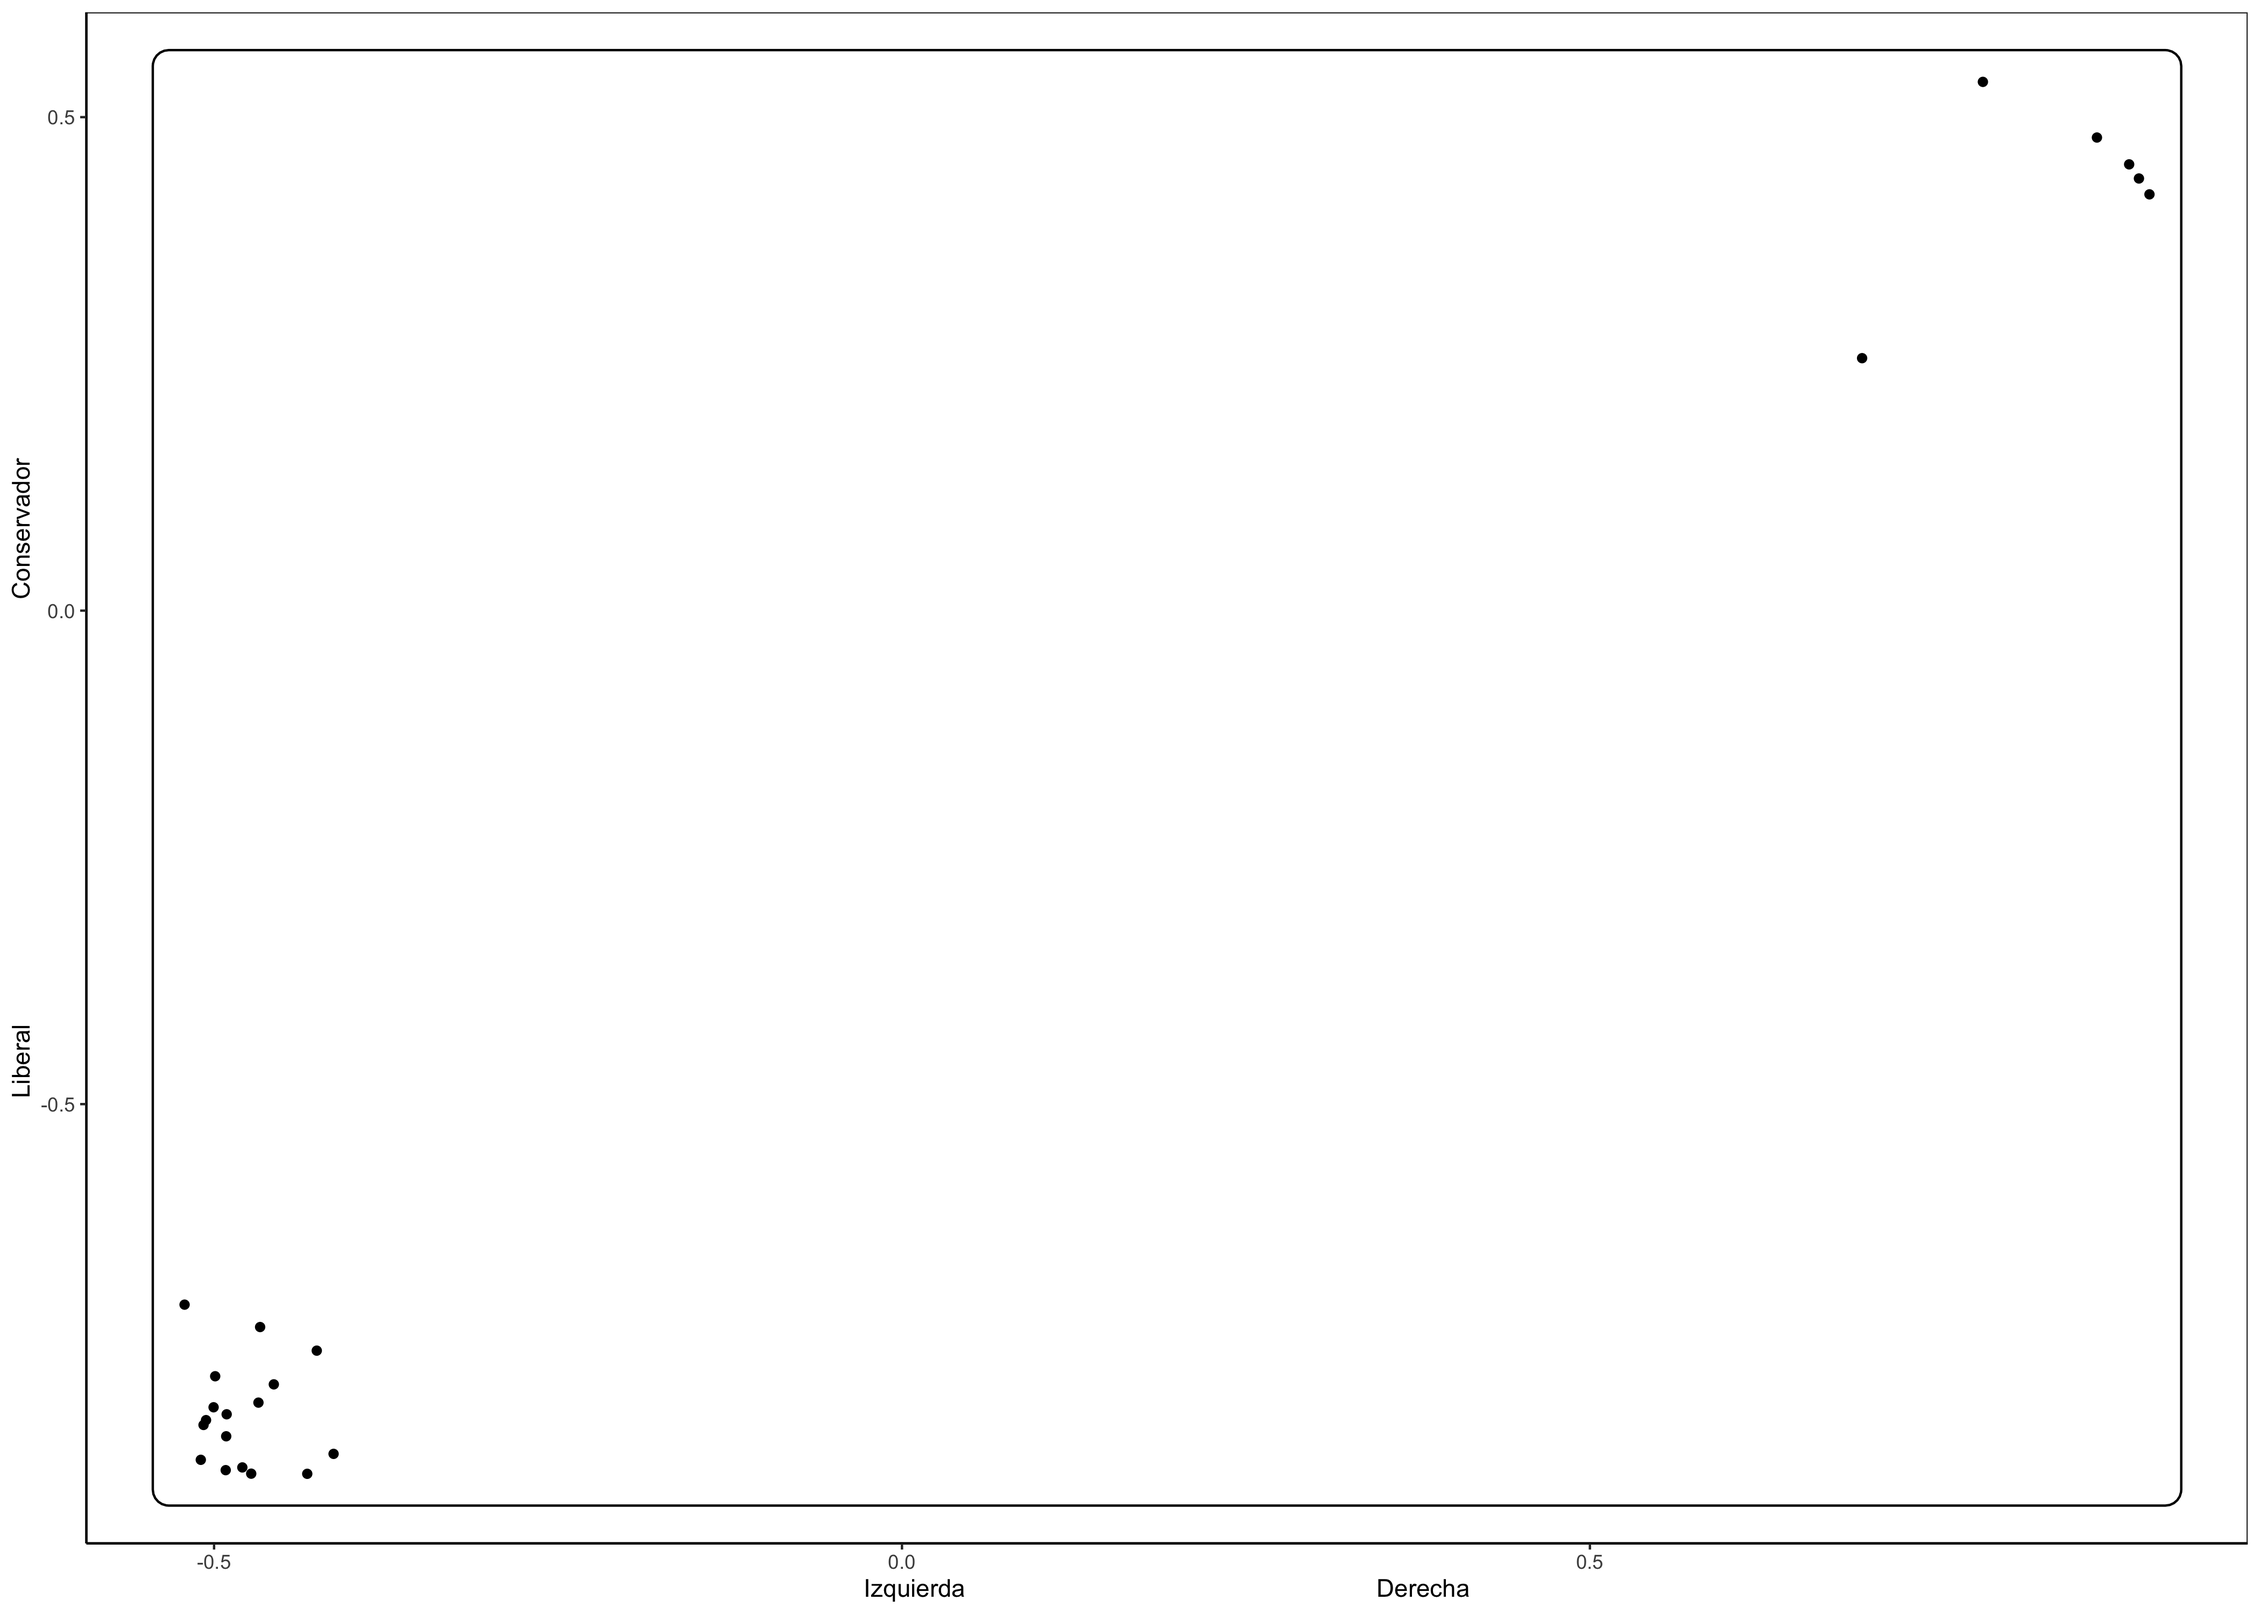
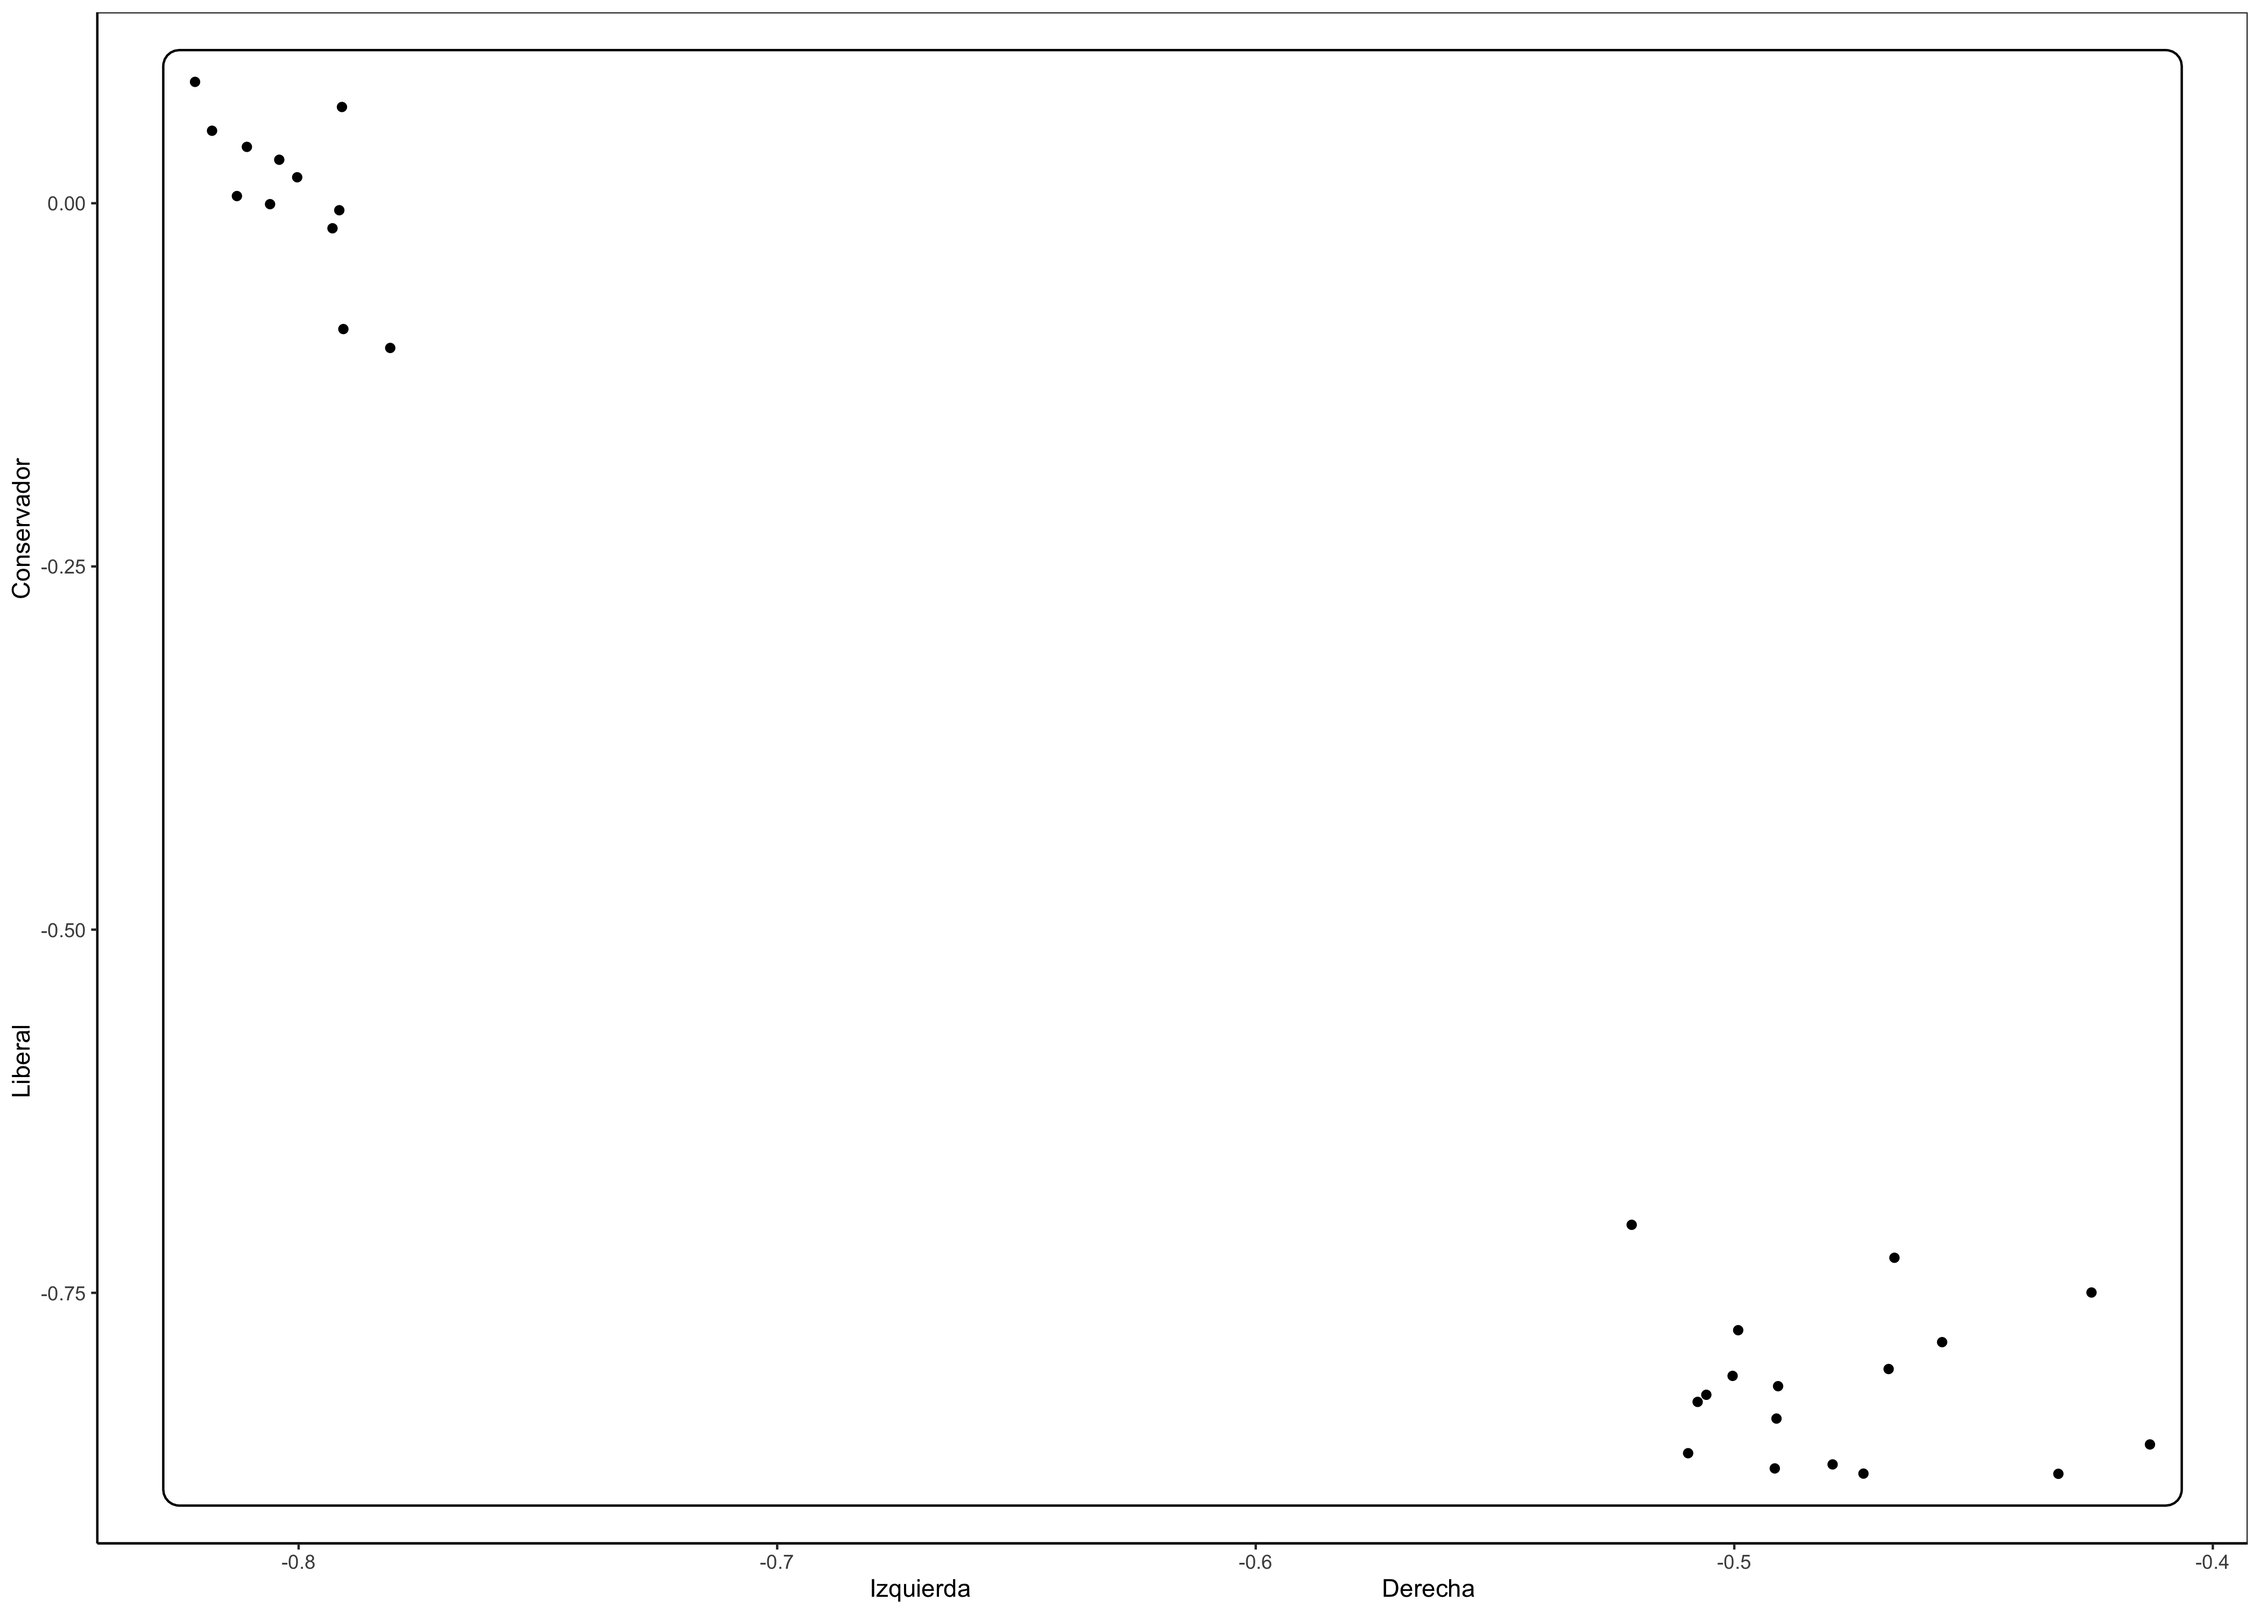
dd

diff --git a/_pages/constituyentes.md b/_pages/constituyentes.md
@@ -28,8 +28,16 @@ En esta página puedes detalles de los constituyentes. La primera sección usa e
 
 
 ### Posicionamiento ideológico de comisiones
-![cc](/images/posicionamiento/puntos_ideales_justicia.png){:height="49%" width="49%"}
+
+/Users/kennethbunker/Dropbox/GitHub/tresquintos.github.io/images/posicionamiento/puntos_ideales_sistema_politico.png
+
+![cc](/images/posicionamiento/puntos_ideales_sistema_politico.png){:height="49%" width="49%"}
+![cc](/images/posicionamiento/puntos_ideales_principiosfundamentales.png){:height="49%" width="49%"}
+![cc](/images/posicionamiento/puntos_ideales_formaestado.png){:height="49%" width="49%"}
+![cc](/images/posicionamiento/derechosfundamentales.png){:height="49%" width="49%"}
 ![cc](/images/posicionamiento/puntos_ideales_medioambiente.png){:height="49%" width="49%"}
+![cc](/images/posicionamiento/puntos_ideales_justicia.png){:height="49%" width="49%"}
+![cc](/images/posicionamiento/puntos_ideales_conocimiento.png){:height="49%" width="49%"}
 
 
 ### Convencionales Constituyentes
